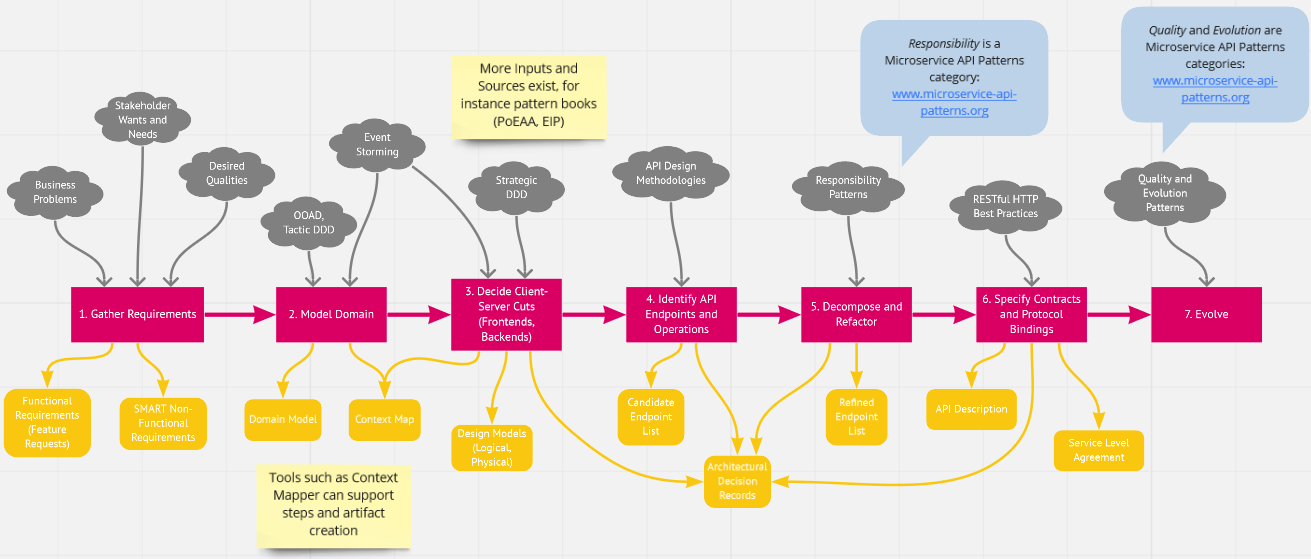
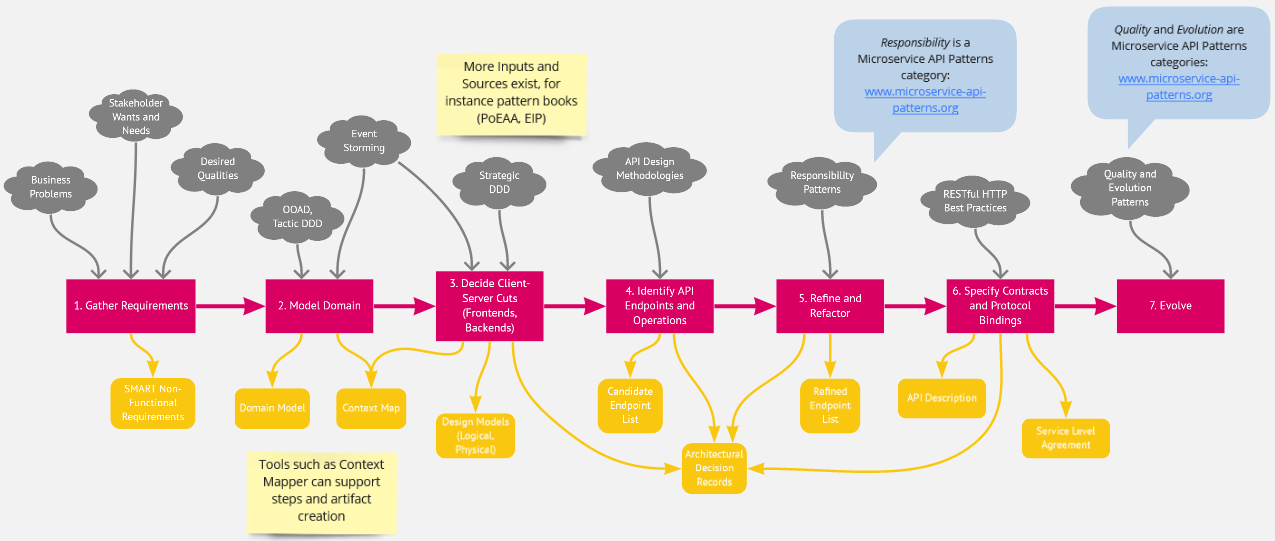
SSD udpate

diff --git a/activities/SDPR-StepwiseServiceDesign.md b/activities/SDPR-StepwiseServiceDesign.md
@@ -43,16 +43,16 @@ There is no single path to APIs and service endpoints of quality and style. When
 <iframe width="640" height="360" src="https://miro.com/app/embed/o9J_ko6VkCM=/?" frameborder="0" scrolling="no" allowfullscreen></iframe>
 -->
 
-
 1. *Understand the business problem as well as stakeholder wants and needs, including desired system qualities.* Before anything can be designed, we ought to know: what should be done (on the project, by the software), and how? Many workshop techniques supporting this step exist, for instance (to name just two) [event storming](https://www.eventstorming.com/) and [quality storming](https://speakerdeck.com/mploed/quality-storming). No matter which technique or template is used, the Non-Functional Requirements (NFRs) should be elicited in a [SMART](DPR-SMART-NFR-Elicitation.md), value- and risk-driven way.
 2. *Model the business domain and group related capabilities*, for instance by applying [tactic Domain-Driven Design (DDD)](DPR-TacticDDD.md) and [strategic DDD](DPR-StrategicDDD.md) (Vernon:2013). If "buy" or "rent" is an option (rather than "build" from scratch only), reverse engineer the interfaces and domain models of the existing systems to be bought or rented and integrated.
 3. *Split applications into frontends and backends*, again applying [strategic DDD](DPR-StrategicDDD.md) and/or other patterns for distributed computing while doing so (@Buschmann:2007, @RenzelKeller:1997). While designing, *capture the [architectural decisions](DPR-ArchitecturalDecisionCapturing.md) made* and *[model](DPR-ArchitectureModeling.md) the resulting architecture*.
-4. *Create a [Candidate Endpoint List](../artifact-templates/SDPR-CandidateEndpointList.md)* that identifies potential API resources. For each candidate endpoint, *forsee a [Remote Facade](https://martinfowler.com/eaaCatalog/remoteFacade.html) that exposes [Data Transfer Objects (DTOs)](https://martinfowler.com/eaaCatalog/dataTransferObject.html)* in its request and response messages of the API operations) and assemble these facades into one or more [Service Layers](https://martinfowler.com/eaaCatalog/serviceLayer.html) to decouple the languages of frontends and backends (@Fowler:2002). Keep on deciding and capturing your architectural decisions. 
-5. *Map candidate endpoints to existing or new backend systems, yielding a [Refined Endpoint List](../artifact-templates/SDPR-RefinedEndpointList.md)*, and *decompose monolithic backends into (micro-)services* (@Newman:2015) to promote flexibility and scalability if these are desired qualities and your software engineering (and operations) toolbox is rich and mature enough. [*Refactor*](https://www.ifs.hsr.ch/Architectural-Refactoring-for.12044.0.html?&L=4) (@Zimmermann:2017) the Candidate Endpoint List and the preliminary architecture from the previous steps along the way (along with any tentatively added remote facades and DTOs). Document and justify these architectural decisions too. 
+4. *Create a [Candidate Endpoint List](../artifact-templates/SDPR-CandidateEndpointList.md)* that identifies potential API resources. For each candidate endpoint, *foresee a [Remote Facade](https://martinfowler.com/eaaCatalog/remoteFacade.html) that exposes [Data Transfer Objects (DTOs)](https://martinfowler.com/eaaCatalog/dataTransferObject.html)* in its request and response messages of the API operations) and assemble these facades into one or more [Service Layers](https://martinfowler.com/eaaCatalog/serviceLayer.html) to decouple the languages of frontends and backends (@Fowler:2002). Keep on deciding and capturing your architectural decisions. 
+5. *Map the candidate endpoints to existing or new backend systems, yielding a [Refined Endpoint List](../artifact-templates/SDPR-RefinedEndpointList.md)*, and *decompose monolithic backends into (micro-)services* (@Newman:2015) to promote flexibility and scalability if these are desired qualities and your software engineering (and operations) toolbox is rich and mature enough. [*Refactor*](https://www.ifs.hsr.ch/Architectural-Refactoring-for.12044.0.html?&L=4) (@Zimmermann:2017) the preliminary architecture from the previous steps along the way (along with any tentatively added remote facades and DTOs). Document and justify these architectural decisions too. 
 6. Once the entries in the refined endpoint list are somewhat stable, *decide for integration technologies* (protocols such as plain HTTP, GraphQL or gRPC, message exchange formats such as JSON and XML) and implement stubs (or an minimum viable API product), integrate and test. *Specify service contracts including protocol bindings and technology mappings* in an [API description a.k.a. service contract artifact](../artifact-templates/SDPR-APIDescription.md). Optionally, add [Service Level Agreements](../artifact-templates/SDPR-ServiceLevelAgreement.md) and [Rate Plans](https://microservice-api-patterns.org/patterns/quality/qualityManagementAndGovernance/RatePlan). Decide on service deployment technologies and microservice infrastructure middleware such as [API gateways](https://microservices.io/patterns/apigateway.html), load balancers, container orchestration engines and cloud offerings (@Fehling:2014), again capturing your decision outcome (for instance, in the code or in Markdown architectural decision records).
 7. *Improve and evolve the API design* and its implementation, for instance adjust endpoint and operation numbers as well as request and response message structures to meet the desired runtime qualities (for instance, performance and scalability). Apply [(micro-)service API design and evolution patterns](https://microservice-api-patterns.org/patterns/evolution/) along the way (@Daigneau:2011, @Zimmermann:2020).
 
-In this DPR repository, these seven top-level steps and activities are supported by one or more [*artifact templates*](../artifact-templates): 
+The seven-step sequence does not suggest sequential or one-time execution ("BDUF"). Whenever you learn something new in later steps, you can return to previous ones; whenever you believe you need to jump ahead to learn more about the technologies, existing systems, etc., you can and should do so. 
+In this DPR repository, the seven top-level steps and activities are supported by one or more [*artifact templates*](../artifact-templates): 
 
 1. Functional requirements are often specified and communicated as [user stories](../artifact-templates/DPR-UserStory.md) and/or [use cases](../artifact-templates/DPR-UseCase.md). 
 2. [Domain Models](../artifact-templates/DPR-DomainModel.md) on different levels of elaboration and refinement capture the results of Object-Oriented Analysis and Design (OOAD) in general and [tactic DDD](DPR-TacticDDD.md) in particular; [Context Maps](../artifact-templates/DPR-StrategicDDDContextMap.md) result from [Strategic DDD](DPR-StrategicDDD.md).
@@ -61,6 +61,8 @@ In this DPR repository, these seven top-level steps and activities are supported
 5. The [Refined Endpoint List](../artifact-templates/SDPR-RefinedEndpointList.md) then is more precise and assertive. 
 6. Step 6 from above should be "business as usual" for agile full stack developers and integration specialists for the most part, yielding an expressive, understandable [API description a.k.a. service contract artifact](../artifact-templates/SDPR-APIDescription.md). Both the abstract "port" level as well as technology-specific "adapter" bindings should be covered in it; both business and technical information has to be published in it. <!-- TODO (v2) write about "API TDD", jUnit, Postman, SOAPUI, Swagger tools, etc.; bring in review checklist from @Lauret:2019 (can also go to Step 7) -->
 7. Patterns from two categories in [Microservice API Patterns (MAP)](https://microservice-api-patterns.org/) are eligible here, the [quality category](https://microservice-api-patterns.org/patterns/quality/) and the [evolution category](https://microservice-api-patterns.org/patterns/evolution/). 
+
+All artifacts can be drafted, revised and completed iteratively and incrementally.
 
 <!-- 
 The architectural refactoring activity is not documented in DPR (this repository) yet, but introduced [here (overview)](https://www.infoq.com/articles/architectural-refactoring/) and [here (more elaborate version with a draft catalog)](http://www.2015.summersoc.eu/wp-content/uploads/2015/07/2.4.ZIO-SummerSoC2015-ArcRefCloudv10p.pdf); it can be supported by tools such as [Context Mapper](https://contextmapper.org/docs/architectural-refactorings/) and [Service Cutter](https://contextmapper.org/docs/service-cutter-context-map-suggestions/).
